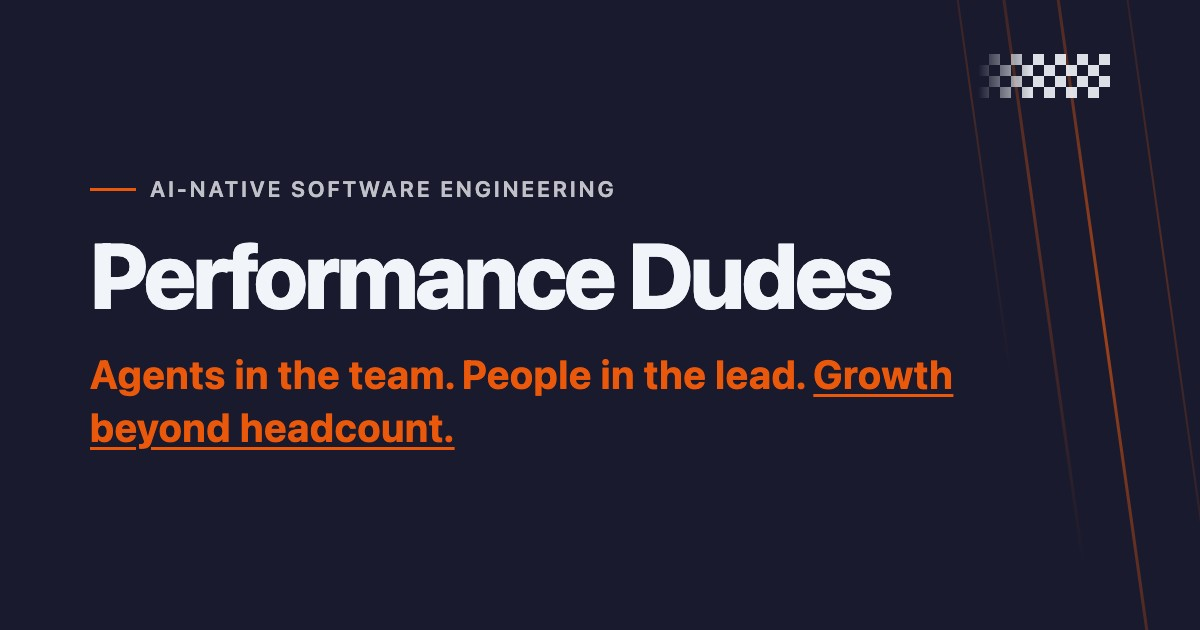
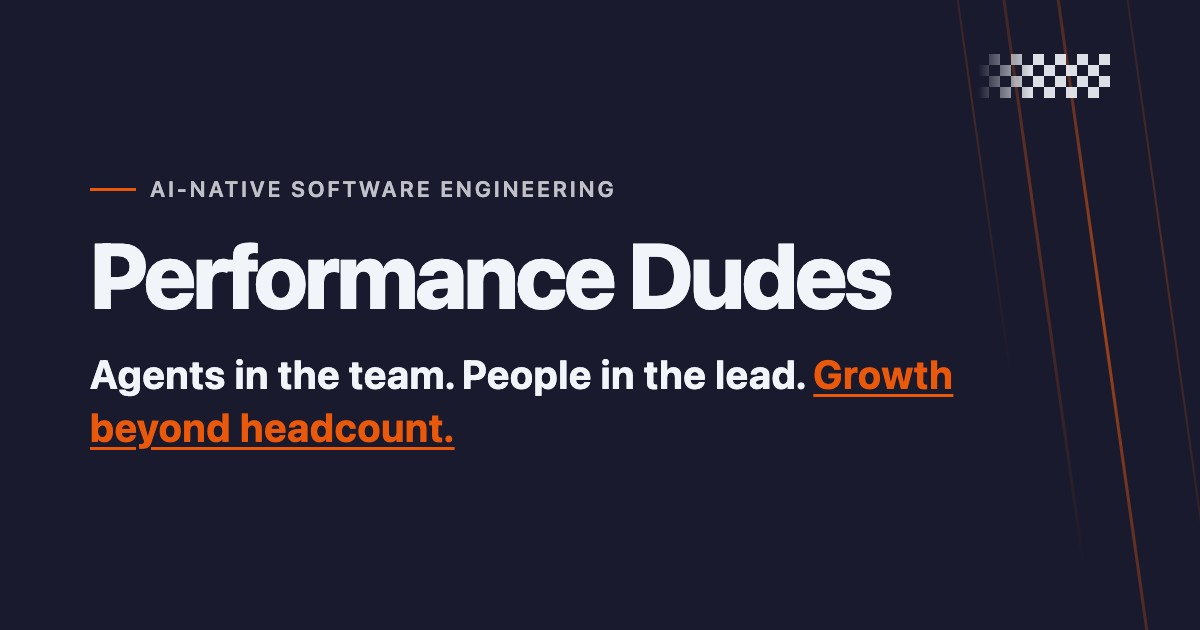
style(hero): Slogan-Text hell, nur betonter Beat orange
Der neue Drei-Beat-Slogan komplett in Orange wirkte überladen (viel Text, alles
Akzentfarbe). Jetzt trägt der Slogan die helle Textfarbe des Titels, nur der
hervorgehobene Beat "Growth beyond headcount." bleibt orange (+ unterstrichen).
Klare visuelle Hierarchie, Orange bleibt echte Akzentfarbe. Gilt für Hero
(HomePage.tsx) und OG-Bild (scripts/og/og-template.html → neu gerendert).

Claude-Session: https://claude.ai/code/session_0145i5EJ38RYKJC6xyr5v5v8

Changed region(s): [[0.0617, 0.573, 0.6783, 0.6333]]

diff --git a/src/app/HomePage.tsx b/src/app/HomePage.tsx
@@ -158,14 +158,15 @@ export function HomePage({ t, locale }: { t: Content; locale: "de" | "en" }) {
                 {t.hero.title}
               </h1>
 
-              {/* Tagline */}
+              {/* Tagline — Text hell, nur der betonte Beat orange (+ unterstrichen),
+                  damit der lange Drei-Beat-Slogan nicht komplett orange überladen wirkt. */}
               <p
-                className="font-bold text-[#EA580C] tracking-[0.04em] mb-8"
+                className="font-bold text-[#F1F5F9] tracking-[0.04em] mb-8"
                 style={{ fontSize: "clamp(1.15rem, 2.5vw, 1.5rem)" }}
               >
                 {taglineParts[0]}
                 <span
-                  className="underline decoration-[3px] underline-offset-[4px] decoration-[#EA580C]"
+                  className="text-[#EA580C] underline decoration-[3px] underline-offset-[4px] decoration-[#EA580C]"
                 >
                   {t.hero.taglineHighlight}
                 </span>

diff --git a/scripts/og/og-template.html b/scripts/og/og-template.html
@@ -75,11 +75,14 @@
         letter-spacing: -3px; line-height: 1.02; margin-bottom: 26px;
       }
 
+      /* Text hell, nur der betonte Beat orange (+ unterstrichen) — spiegelt den
+         Hero: kein komplett-oranger, überladener Slogan. */
       .tagline {
-        color: var(--orange); font-weight: 700; font-size: 40px;
+        color: var(--white); font-weight: 700; font-size: 40px;
         letter-spacing: 0.5px; line-height: 1.32; max-width: 960px;
       }
       .tagline u {
+        color: var(--orange);
         text-decoration: underline; text-decoration-thickness: 3px;
         text-underline-offset: 5px;
       }
